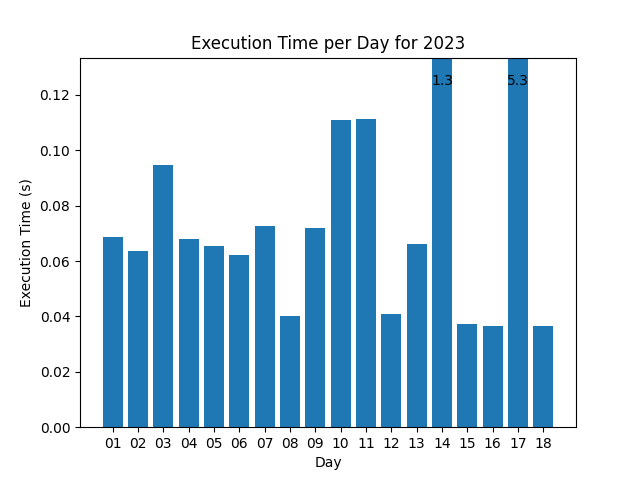
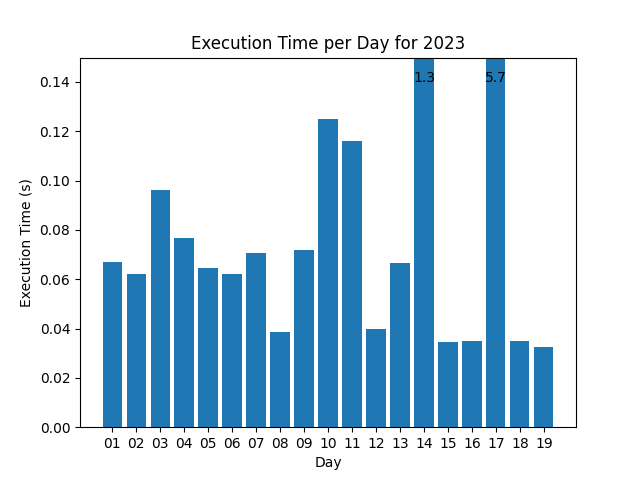
20231219 - Added solution for day_19

diff --git a/2023/day_19/solution.py b/2023/day_19/solution.py
@@ -1,0 +1,125 @@
+import re
+import operator
+from copy import deepcopy
+from pathlib import Path
+
+SCRIPT_PATH = Path(__file__).resolve().parent
+INPUT_PATH = Path(SCRIPT_PATH, "inputs/input.txt")
+# INPUT_PATH = Path(SCRIPT_PATH, "inputs/example1.txt")
+
+def parse_input(data):
+    # Parse the output to separate the instructions and the parts and then return each of those parsed in custom ways 
+    instructions, parts = [item.splitlines() for item in data.split('\n\n')]
+    return (parse_instructions(instructions), parse_parts(parts))
+
+def parse_parts(parts):
+    # Remove the brackets, split by commas, and then return a list of dictionaries for each part
+    return [{pair.split('=')[0]: int(pair.split('=')[1]) for pair in part.strip('{}').split(',')} for part in parts]
+
+def parse_instructions(instructions):
+    # Parse each instruction set, and return a dictionary where the keys are the instruction key, and then value is the list of instructions
+    new_instr = {}
+    for instr in instructions:
+        curr_instr = instr.strip('}').split('{')
+        key = curr_instr[0]
+        value = []
+        for item in curr_instr[1].split(','):
+            value.append(item.split(':'))
+        new_instr[key] = value
+    return new_instr
+
+def check(part, curr_instr, instructions):
+    # For part 1, simply follow the instructions, and return the next possible instruction set
+    for item in instructions[curr_instr]:
+        if len(item) > 1:
+            match = re.search(r'[<>]', item[0])  # Figure out the operator from the string, and calculate
+            match match.group():
+                case '<': op = operator.lt
+                case '>': op = operator.gt
+            if op(part[item[0][0]], int(item[0][2:])):
+                return item[1]
+        else:
+            return item[0]
+        
+def recursive_check(curr_in, curr_path, accepted, instructions):
+    # Use recursion to find the values that allow for each successful path and return the list of accepted paths 
+    for instr in instructions[curr_in]:
+        if len(instr) > 1:
+            first = deepcopy(curr_path)  # If going recursive, ensure you are making a copy of the current path
+            first[instr[0][0]].append(instr[0][1:])  # Add the current path to the copy
+            if instr[1] == 'R':  # For these, make sure to only pass so you don't skip the opposite path for the set
+                pass
+            elif instr[1] == 'A':
+                accepted.append(first)
+                pass
+            else:  # If we haven't found an end, recurse
+                accepted = recursive_check(instr[1], first, accepted, instructions)
+            val = int(instr[0][2:])  # Don't forget to add the difference if you have to swap operators
+            match instr[0][1]:
+                case '>':
+                    val += 1
+                case '<': 
+                    val -= 1
+            sym = '<>'.replace(instr[0][1], '')  # Add the opposite operator to the number when swapping
+            curr_path[instr[0][0]].append(''.join([sym, str(val)]))  # Add the path to the curr_path before performing the next instruction
+        elif instr[0] == 'A':  # If you've hit the end of your instruction set, determine the next step
+            accepted.append(curr_path)
+            return accepted
+        elif instr[0] == 'R':
+            return accepted
+        else:
+            accepted = recursive_check(instr[0], curr_path, accepted, instructions)
+    return accepted
+
+def part1(parsed_data):
+    # Use a while loop to determine when you've hit the end for each part and return the sum of all accepted parts
+    accepted = []
+    for part in parsed_data[1]:
+        curr_instr = 'in'
+        while curr_instr not in ['R', 'A']:
+            curr_instr = check(part, curr_instr, parsed_data[0])
+        if curr_instr == 'A':
+            accepted.append(part)
+            print(f"The part with values {part} is accepted")
+    return sum([sum(part.values()) for part in accepted])
+
+def part2(parsed_data):
+    # Recursively find all possible accepted paths and their respective switches that are required
+    # Run through the accepted paths and find their boundaries for each letter and multiply the possible ranges
+    # Return the sum of all possible values per accepted path
+    path = {'x': [], 'm': [], 'a': [], 's': []}
+    accepted = recursive_check('in', deepcopy(path), [], parsed_data[0])
+    total = 0
+    count = 1
+    for line in accepted:
+        curr_values = [[1, 4000], [1, 4000], [1, 4000], [1, 4000]]  # Start with the full possible value for each path
+        for idx, char in enumerate(line):
+            for item in line[char]:
+                match item[0]:
+                    case '<':  # If the operator is less than, and the upper end of the range is greater, set the new upper limit
+                        if int(item[1:]) < curr_values[idx][1]:
+                            curr_values[idx][1] = int(item[1:]) - 1
+                    case '>': # If the operator is greater than, and the lower end of the range is lesser, set the new lower limit
+                        if int(item[1:]) > curr_values[idx][0]:
+                            curr_values[idx][0] = int(item[1:]) + 1
+        t = 1  # Add the full possible values to the total
+        for lo, hi in curr_values:
+            t *= hi - lo + 1
+        print(f"Accepted part {count} has {t} possible combinations")
+        count += 1
+        total += t
+    return total
+
+if __name__ == "__main__":
+    with open(INPUT_PATH , "r") as f:
+        parsed_data = parse_input(f.read())
+
+    print("--- PART 1 ---")
+    answer1 = part1(parsed_data)
+    
+    print("\n--- PART 2 ---")
+    answer2 = part2(parsed_data)
+
+    print("\n--- ANSWERS ---")
+    print(f"PART1 - The total ratings for all accepted parts is {answer1}")
+    print(f"PART2 - The number of distinct combinations of accepted ratings is {answer2}")
